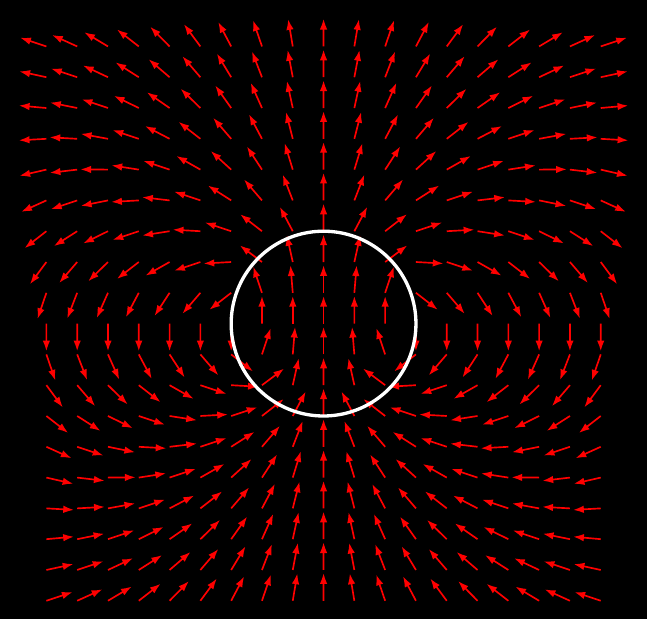
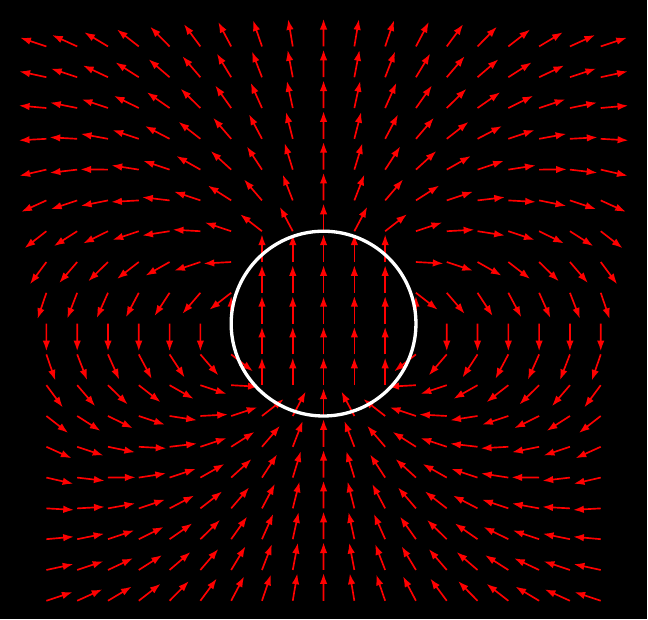
Revert "correcting field inside sphere"
This reverts commit 1dfad221708d32b264ce3093321d7cc5ae32e44b.

diff --git a/electrodynamics/rotating-charged-sphere-vectorfield/rotating-charged-sphere-vectorfield.tex b/electrodynamics/rotating-charged-sphere-vectorfield/rotating-charged-sphere-vectorfield.tex
@@ -44,17 +44,9 @@
     declare function = {
       rsq(\x,\z) = \x*\x + \z*\z;
       rabs(\x,\z) = sqrt(rsq(\x,\z));
-      rpowfive(\x,\z) = max(rabs(\x,\z),\eps)^5;
-      % outside magnetic field for mu_0 m/(4 pi) = 1
-      Bxout(\x,\z) = 3*\x*\z/rpowfive(\x,\z);
-      Bzout(\x,\z) = (2*\z*\z - \x*\x)/rpowfive(\x,\z);
-      % inside magnetic field of rotating uniformly charged solid sphere
-      Bxin(\x,\z) = 3*\x*\z/(\R^5);
-      Bzin(\x,\z) = (5*\R^2 - 6*\x*\x - 3*\z*\z)/(\R^5);
-      % combined magnetic field
-      Bxraw(\x,\z) = (rabs(\x,\z) < \R) ? Bxin(\x,\z) : Bxout(\x,\z);
-      Bzraw(\x,\z) = (rabs(\x,\z) < \R) ? Bzin(\x,\z) : Bzout(\x,\z);
-      % norm
+      % magnetic field (inside and outside the sphere) for y=0 and \mu_0 m/(4\pi) = 1
+      Bxraw(\x,\z) = (rabs(\x,\z) < \R) ? 0 : (3*\x*\z/rabs(\x,\z)^5);
+      Bzraw(\x,\z) = (rabs(\x,\z) < \R) ? 1 : ((2*\z*\z - \x*\x)/rabs(\x,\z)^5);
       Bnorm(\x,\z) = sqrt(Bxraw(\x,\z)^2 + Bzraw(\x,\z)^2);
       % normalized magnetic field
       Bx(\x,\z) = (Bnorm(\x,\z) < \eps) ? (0/0) : (Bxraw(\x,\z)/Bnorm(\x,\z));
@@ -70,10 +62,8 @@
       },
       -{Latex[length=1pt 4,width=1pt 2]},
       red,
-      domain=-3:3,
-      y domain=-3:3,
-      samples=19,
-      samples y=19,
+      domain=-3:3, y domain=-3:3,
+      samples=19, samples y=19,
     ] {0};
     % sphere
     \addplot[black, thick, domain=0:360, samples=240] ({\R*cos(x)},{\R*sin(x)});

diff --git a/electrodynamics/rotating-charged-sphere-vectorfield/rotating-charged-sphere-vectorfield_inverted.tex b/electrodynamics/rotating-charged-sphere-vectorfield/rotating-charged-sphere-vectorfield_inverted.tex
@@ -53,17 +53,9 @@
     declare function = {
       rsq(\x,\z) = \x*\x + \z*\z;
       rabs(\x,\z) = sqrt(rsq(\x,\z));
-      rpowfive(\x,\z) = max(rabs(\x,\z),\eps)^5;
-      % outside magnetic field for mu_0 m/(4 pi) = 1
-      Bxout(\x,\z) = 3*\x*\z/rpowfive(\x,\z);
-      Bzout(\x,\z) = (2*\z*\z - \x*\x)/rpowfive(\x,\z);
-      % inside magnetic field of rotating uniformly charged solid sphere
-      Bxin(\x,\z) = 3*\x*\z/(\R^5);
-      Bzin(\x,\z) = (5*\R^2 - 6*\x*\x - 3*\z*\z)/(\R^5);
-      % combined magnetic field
-      Bxraw(\x,\z) = (rabs(\x,\z) < \R) ? Bxin(\x,\z) : Bxout(\x,\z);
-      Bzraw(\x,\z) = (rabs(\x,\z) < \R) ? Bzin(\x,\z) : Bzout(\x,\z);
-      % norm
+      % magnetic field (inside and outside the sphere) for y=0 and \mu_0 m/(4\pi) = 1
+      Bxraw(\x,\z) = (rabs(\x,\z) < \R) ? 0 : (3*\x*\z/rabs(\x,\z)^5);
+      Bzraw(\x,\z) = (rabs(\x,\z) < \R) ? 1 : ((2*\z*\z - \x*\x)/rabs(\x,\z)^5);
       Bnorm(\x,\z) = sqrt(Bxraw(\x,\z)^2 + Bzraw(\x,\z)^2);
       % normalized magnetic field
       Bx(\x,\z) = (Bnorm(\x,\z) < \eps) ? (0/0) : (Bxraw(\x,\z)/Bnorm(\x,\z));
@@ -79,10 +71,8 @@
       },
       -{Latex[length=1pt 4,width=1pt 2]},
       red,
-      domain=-3:3,
-      y domain=-3:3,
-      samples=19,
-      samples y=19,
+      domain=-3:3, y domain=-3:3,
+      samples=19, samples y=19,
     ] {0};
     % sphere
     \addplot[white, thick, domain=0:360, samples=240] ({\R*cos(x)},{\R*sin(x)});